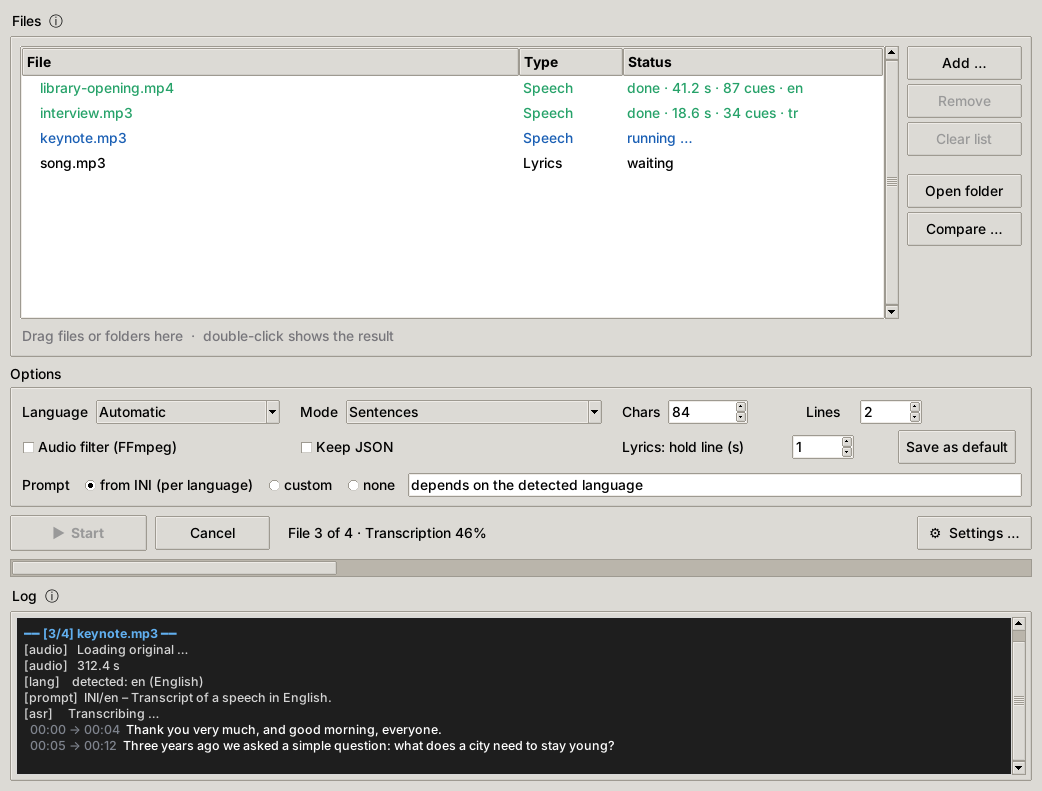
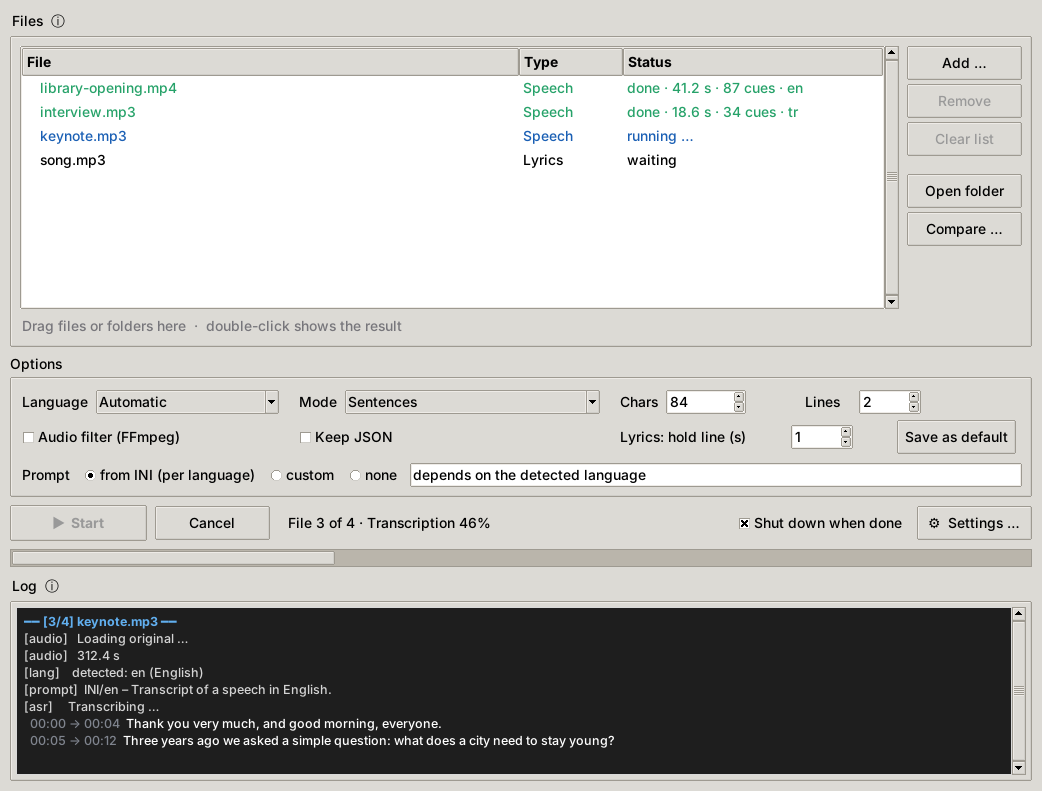
0.8.0: installer, uninstaller, update from GitHub, shut down when done
Version 0.8.0 in wt_version.py, the plugin template, the three READMEs
and the CHANGELOG. The READMEs describe the installation with install.bat
first and keep the manual installation after it; new sections for
uninstalling and "Shut down when done", new troubleshooting rows.
New screenshot of the installer; main window, DaVinci job and
Settings -> General taken again.

Claude-Session: https://claude.ai/code/session_01QDKquJcjmRpJRue1Hf8aj3

diff --git a/wt_version.py b/wt_version.py
@@ -1,4 +1,4 @@
 """Name and version: title bar, log, system check, settings dialog and comparison report."""
 
 APP_NAME = "WhisperX Subtitle Workbench"
-VERSION = "0.7.9"
+VERSION = "0.8.0"

diff --git a/README.de.md b/README.de.md
@@ -2,7 +2,7 @@
 
 [English](README.md) · **Deutsch** · [Türkçe](README.tr.md)
 
-**Version 0.7.9** · [Änderungen](CHANGELOG.md)
+**Version 0.8.0** · [Änderungen](CHANGELOG.md)
 
 Ein Windows-Programm für **Untertitel aus Reden** (WhisperX), **Liedtexte passend zum Song** (MMS_FA) und den **Wort-für-Wort-Vergleich von Transkripten**. Dazu kommt ein **Plugin für DaVinci Resolve**. Die Oberfläche gibt es auf Deutsch, Englisch und Türkisch.
 
@@ -20,6 +20,7 @@ Du ziehst Video- oder Audiodateien ins Fenster, und die Workbench erstellt `.srt
 - [Voraussetzungen und Abhängigkeiten](#voraussetzungen-und-abhängigkeiten) – vor der Installation lesen
 - [Installation (Windows)](#installation-windows)
 - [Sicher aktualisieren](#sicher-aktualisieren)
+- [Deinstallation](#deinstallation)
 - [Bedienung](#bedienung)
 - [Transkripte vergleichen](#transkripte-vergleichen)
 - [DaVinci Resolve](#davinci-resolve)
@@ -55,11 +56,13 @@ Du ziehst Video- oder Audiodateien ins Fenster, und die Workbench erstellt `.srt
   - Zeigt Zeitabweichungen.
   - Jede Zeit im Bericht ist anklickbar und spielt das Audio ab dieser Stelle.
 - **DaVinci Resolve:** Ein Plugin transkribiert die Timeline direkt aus Resolve heraus; die Untertitel kommen auf eine native Untertitelspur zurück (siehe [DaVinci Resolve](#davinci-resolve)).
+- **Installation per Doppelklick:** `install.bat` prüft Python, Grafikkarte, Treiber und ffmpeg, installiert, was fehlt, und die getesteten Paketversionen und sagt vorher und nachher, welche Pakete es aktualisiert oder zurücksetzt. Updates kommen von GitHub. `uninstall.bat` entfernt die Workbench und lässt deine Einstellungen stehen (siehe [Installation](#installation-windows)).
 - **Systemprüfung** bei jedem Start: Sie listet Python, alle Pakete samt Versionen, ffmpeg, die Modelle und die Grafikkarte auf und sagt dir, welche Funktion ausfallen würde.
 - **Komfort:**
   - Drag & Drop auf die BAT-Datei oder ins Fenster. Ein zweiter Start reicht seine Dateien an das schon offene Fenster weiter.
   - Ein Countdown startet die Verarbeitung automatisch; Jobs aus DaVinci Resolve haben einen eigenen.
   - Erkannte Zeilen erscheinen live im Protokoll.
+  - *Danach herunterfahren* schaltet den Rechner nach der letzten Datei aus.
   - Tooltips erklären jede Option.
   - Der Einstellungsdialog schreibt nur geänderte Werte und lässt die Kommentare in der INI stehen.
 - **Mehrsprachig:** Deutsch, Englisch und Türkisch. Weitere Sprachen fügst du hinzu, indem du eine einzige JSON-Datei kopierst (siehe [Sprache der Oberfläche und Übersetzungen](#sprache-der-oberfläche-und-übersetzungen)).
@@ -130,6 +133,30 @@ whisperx 3.8.x ── verlangt torch~=2.8.0, torchaudio~=2.8.0, torchvision~=0.2
 ---
 
 ## Installation (Windows)
+
+### Mit install.bat (empfohlen)
+
+1. **Herunterladen:** [WhisperX-Subtitle-Workbench.zip](https://github.com/fardem/WhisperX-Subtitle-Workbench/releases/latest/download/WhisperX-Subtitle-Workbench.zip) (das neueste Release).
+2. **Entpacken:** Rechtsklick auf die ZIP-Datei → *Alle extrahieren*. Ein Doppelklick öffnet die ZIP-Datei nur; von dort startet `install.bat` nicht.
+3. **Doppelklick auf `install.bat`** im entpackten Ordner. Windows warnt eventuell, weil die Datei aus dem Internet kommt: *Weitere Informationen* → *Trotzdem ausführen*.
+4. Fehlt Python, fragt das schwarze Fenster, ob Python 3.13 mit winget installiert werden soll: mit `J` antworten. Administratorrechte sind nicht nötig.
+5. Das Fenster des Installers listet, was es gefunden hat und was es tun wird. Vor dem Klick auf den blauen Knopf ändert es nichts.
+
+![Installer](docs/images/installer.png)
+
+Der Installer:
+- installiert nach `C:\WhisperX-Subtitle-Workbench` (*Ändern …* wählt einen anderen Ordner). Einen Ordner, in dem schon eine Workbench mit `venv` liegt, repariert er an Ort und Stelle.
+- installiert ffmpeg und bei Bedarf die Microsoft Visual C++ Runtime mit winget, jeweils nach einem Häkchen in der Liste.
+- wählt die PyTorch-Version für die Grafikkarte: `cu128` für RTX 20xx–50xx und GTX 16xx, `cu126` für GTX 9xx/10xx und Titan V, die CPU-Version ohne NVIDIA-Karte. Bei `cu126` stellt er die *Genauigkeit* auf `int8`, bei der CPU-Version das *Gerät* auf `cpu` – nur, wo noch der Vorgabewert steht.
+- installiert die Versionen aus `constraints.txt` in der Reihenfolge der manuellen Installation unten.
+- legt eine Verknüpfung auf dem Desktop und im Startmenü sowie einen Eintrag unter *Einstellungen → Apps* an, lädt das Whisper-Modell und installiert das Plugin für DaVinci Resolve – jeweils nach einem Häkchen.
+- verhindert während der Installation den Standby und schreibt alles in `install.log`.
+
+Nach der Installation in einen anderen Ordner brauchst du den entpackten Ordner nicht mehr.
+
+Bricht die Installation ab, zum Beispiel weil die Internetverbindung weg war, starte `install.bat` erneut: Es macht weiter und lädt fertige Dateien nicht noch einmal. Der Eintrag *WhisperX Subtitle Workbench – aktualisieren oder reparieren* im Startmenü startet es ebenfalls.
+
+### Manuelle Installation
 
 Alle Befehle sind für `cmd.exe`. Der Beispielordner ist `C:\WhisperX-Subtitle-Workbench`. Jeder andere Ordner geht auch, solange `venv` **darin** liegt, denn `Whisper_Tool.bat` sucht es dort.
 
@@ -225,6 +252,12 @@ Wenn du schon ein funktionierendes WhisperX-venv hast, z.B. in `C:\WhisperX\venv
 
 ## Sicher aktualisieren
 
+**Mit install.bat:** *Einstellungen → Allgemein → Nach Updates suchen …* fragt GitHub nach einer neuen Version; die Workbench schließt sich, und `install.bat` übernimmt. Oder lade die neue ZIP-Datei, entpacke sie und starte das `install.bat` darin: Es findet die installierte Workbench und aktualisiert sie. Bevor der Installer etwas ändert, listet er, welche Pakete er aktualisiert (neuere Version) und welche er zurücksetzt (ältere Version); danach zeigt er, was er geändert hat. Die Programmdateien der alten Version bleiben in `update-backup\`; scheitert das Update, holt *Alte Version wiederherstellen* sie zurück. `whisper_tool.ini` wird nie ersetzt.
+
+Beim Start fragt die Workbench höchstens einmal am Tag bei GitHub nach einer neuen Version und nennt sie im Protokoll; *Einstellungen → Allgemein* schaltet das ab (`[System] update_check = 0`).
+
+**Von Hand:**
+
 - **Zuerst die Workbench schließen.** Die laufende Version steht in der Titelleiste hinter *WhisperX Subtitle Workbench*, in der ersten Zeile des Protokolls und unter *Einstellungen → Allgemein*. Ist beim Start der neuen Version noch ein älteres Fenster offen, warnt die neue Version, statt deine Dateien still an das alte Fenster weiterzugeben.
 - **Die Workbench selbst:** `git pull`, oder die neuen Dateien über die alten kopieren. Deine Einstellungen stehen in `whisper_tool.ini`. Diese Datei gehört nicht zum Repository, ein Update überschreibt sie also nie. Neue Optionen bekommen automatisch Standardwerte.
 - **Python-Pakete:** Nur aktualisieren, wenn du etwas Neues brauchst. So geht es sicher:
@@ -253,6 +286,21 @@ Wenn du schon ein funktionierendes WhisperX-venv hast, z.B. in `C:\WhisperX\venv
 
 ---
 
+## Deinstallation
+
+Starte `uninstall.bat` im Ordner der Workbench oder *Einstellungen → Apps → WhisperX Subtitle Workbench → Deinstallieren*. Ein Fenster listet, was entfernt wird, jede Gruppe mit Häkchen und Größe:
+
+- die Python-Umgebung (`venv`)
+- die Programmdateien, die Verknüpfungen und der Eintrag unter *Apps*
+- eigene Modelle (`models`)
+- die SRTs der letzten Übergaben in `resolve_temp` – die Untertitel auf deinen Timelines bleiben, die Elemente im Bin *WhisperX* sind danach offline
+- das Plugin für DaVinci Resolve, wenn es zu diesem Ordner gehört
+- geladene Modelle in deinem Benutzerordner – Vorgabe aus, andere Programme können sie nutzen
+
+Temporäre Dateien und Protokolle werden ohne Rückfrage entfernt. `whisper_tool.ini` und `whisper_tool.ini.bak` bleiben immer, ebenso alle Dateien, die nicht zur Workbench gehören, zum Beispiel Videos und SRTs im Ordner. Der Bericht am Ende nennt sie mit Pfad und listet, was auf dem PC bleibt: Python, ffmpeg, die Visual C++ Runtime und die Caches, jeweils mit dem Hinweis, ob `install.bat` sie installiert hat. Er wird als `uninstall_report.txt` gespeichert. Python, ffmpeg und Treiber entfernt `uninstall.bat` nie.
+
+---
+
 ## Bedienung
 
 | Du ziehst … | Die Workbench macht … | Ergebnis |
@@ -264,6 +312,7 @@ Wenn du schon ein funktionierendes WhisperX-venv hast, z.B. in `C:\WhisperX\venv
 | die WAV eines DaVinci-Resolve-Jobs – das Plugin startet die Workbench damit | Transkription, dann **→ An DaVinci übergeben** | die Untertitel auf einer Untertitelspur in Resolve |
 
 - **Start** verarbeitet die markierten Dateien. Ist nichts markiert, verarbeitet es alle Dateien, die noch nicht fertig sind. Ist alles fertig, verarbeitet es alle nochmal, z.B. mit anderem Layout.
+- **Danach herunterfahren:** Mit dem Häkchen neben *Start* fährt der Rechner nach der letzten Datei herunter. Vorher zählt ein Fenster 60 Sekunden herunter; *Abbrechen* dort lässt den Rechner an. Bis dahin geht der Rechner nicht in den Standby, und das Protokoll wird als `whisper_tool_shutdown.log` gespeichert. Nicht nach *Abbrechen* im Hauptfenster; das Häkchen fehlt, wenn das Plugin die Workbench gestartet hat, und ist gesperrt, solange ein Job aus DaVinci Resolve in der Liste ist. Programme mit ungespeicherten Daten, zum Beispiel DaVinci Resolve, können das Herunterfahren anhalten.
 - **Sprache:**
   - *Automatisch* erkennt die Sprache pro Datei, anhand der ersten 30 Sekunden.
   - Eine fest eingestellte Sprache ist zuverlässiger. Wähle sie, wenn die Aufnahme mit Musik oder einem Intro beginnt.
@@ -415,10 +464,13 @@ venv\Scripts\python.exe wt_compare.py A.srt --ref referenz.srt --lang de
 
 | Problem | Lösung |
 |---|---|
+| `install.bat`: „Der Computer wurde durch Windows geschützt“ | *Weitere Informationen* → *Trotzdem ausführen*. Der Installer entfernt die Internet-Markierung von den Dateien der Workbench; danach kommt die Warnung nicht wieder |
+| Die Installation ist abgebrochen | `install.bat` erneut starten; es macht weiter. Einzelheiten stehen in `install.log` im Ordner der Workbench |
+| Der Installer meldet Pakete, die neuer als getestet sind | *Anpassen (empfohlen)* setzt sie auf die getesteten Versionen zurück. Programme, die du ins selbe `venv` installiert hast, brauchen eventuell die neueren |
 | Nach einem Update ist noch die alte Oberfläche zu sehen (Titel „Whisper Tool“) | Ein altes Fenster ist noch offen und hat den Start übernommen. Schließen – ist es nicht sichtbar, im Task-Manager `pythonw.exe` beenden – und neu starten |
 | Die Workbench startet nicht | Ein Meldungsfenster zeigt die Ursache. Derselbe Text steht in `whisper_tool_error.log` |
 | Eine Zeile der Systemprüfung ist rot | Sie nennt das fehlende Teil und welche Funktion betroffen ist. Siehe [Häufige Installationsfehler](#häufige-installationsfehler) |
-| „torch ist eine Version ohne CUDA“ | torch wurde von PyPI installiert. Schritt 4 der Installation wiederholen |
+| „torch ist eine Version ohne CUDA“ | torch wurde von PyPI installiert. `install.bat` starten: Es ersetzt torch durch die Version für deine Grafikkarte. Von Hand: Schritt 4 der manuellen Installation |
 | Text fehlt an leisen Stellen | Den Lücken-Check ansehen. Dann den *Onset* senken oder *silero* testen (*Einstellungen → Spracherkennung*) |
 | Falsche Wörter in den Untertiteln | Den Score-Check einschalten (*Einstellungen → Spracherkennung*) und die gemeldeten Stellen anhören. Wiederkehrende Fehler mit einer Ersetzung oder dem Prompt beheben (*Einstellungen → Sprachen*) |
 | Der Score-Check markiert viele Namen, die richtig sind | Namen und Fremdwörter haben oft einen niedrigen Score. Die Schwelle senken, z. B. auf 0,30 |
@@ -446,12 +498,19 @@ venv\Scripts\python.exe wt_compare.py A.srt --ref referenz.srt --lang de
 | `lang/*.json` | Alle Texte von Oberfläche, Protokoll und Bericht (en, de, tr) |
 | `whisper_tool.example.ini` | Einstellungs-Vorlage; wird beim ersten Start zu `whisper_tool.ini` kopiert |
 | `Whisper_Tool.bat` | Starter: doppelklicken oder Dateien darauf ziehen |
+| `install.bat` | Installation, Reparatur und Update: sucht ein Python und öffnet das Fenster des Installers |
+| `uninstall.bat` | Deinstallation; `whisper_tool.ini` bleibt |
+| `wt_setup.py` | Logik von Installer und Uninstaller: Prüfungen, Paketvergleich, Kopieren, Entfernen (nur Standardbibliothek) |
+| `wt_setup_ui.py` | Fenster von Installer und Uninstaller |
+| `wt_files.txt` | Die Programmdateien dieser Version; `python tools/manifest.py --write` schreibt die Liste |
+| `.github/workflows/release.yml` | Hängt `WhisperX-Subtitle-Workbench.zip` an jedes Release |
 | `requirements.txt` | Die getesteten Paketversionen (torch zuerst installieren, Schritt 4) |
 | `constraints.txt` | Exakte Versionen aller Pakete der getesteten Installation (`pip freeze`), wird in Schritt 5 mit `-c` benutzt |
 | `tests/` | Automatische Tests (pytest). Sie brauchen weder Grafikkarte noch WhisperX und laufen bei jedem Push auf GitHub. Die Tests des Resolve-Plugins laufen gegen ein nachgebautes Resolve und brauchen das Paket `lupa`; ohne es werden sie übersprungen |
 | `tools/comments.py` | Zählt Kommentarzeilen je Datei; `--write` setzt die Grenzen in `tests/comment_limits.json` |
 | `CLAUDE.md` | Regeln für Texte und Kommentare in diesem Projekt (liest Claude Code) |
 | `resolve_temp/` | Job-Ordner des Plugins und die SRTs der letzten 10 Übergaben (nicht im Repository) |
+| `install.log`, `wt_install.json`, `update-backup/` | Protokoll und Zustand des Installers, Programmdateien der Version vor einem Update (nicht im Repository) |
 
 ---
 

diff --git a/README.md b/README.md
@@ -2,7 +2,7 @@
 
 **English** · [Deutsch](README.de.md) · [Türkçe](README.tr.md)
 
-**Version 0.7.9** · [Changelog](CHANGELOG.md)
+**Version 0.8.0** · [Changelog](CHANGELOG.md)
 
 A Windows desktop tool for **subtitles from speeches** (WhisperX), **lyrics aligned to songs** (MMS_FA) and **comparing transcripts word by word** – with a **plugin for DaVinci Resolve** and a user interface in English, German and Turkish.
 
@@ -18,6 +18,7 @@ You drop video or audio files into the window, and the Workbench creates `.srt` 
 - [Requirements and dependencies](#requirements-and-dependencies) – read this before installing
 - [Installation (Windows)](#installation-windows)
 - [Updating safely](#updating-safely)
+- [Uninstalling](#uninstalling)
 - [Usage](#usage)
 - [Comparing transcripts](#comparing-transcripts)
 - [DaVinci Resolve](#davinci-resolve)
@@ -53,11 +54,13 @@ You drop video or audio files into the window, and the Workbench creates `.srt` 
   - Shows timing deviations.
   - Every time in the report is clickable and plays the audio from that point.
 - **DaVinci Resolve:** a plugin transcribes the timeline from inside Resolve; the subtitles come back onto a native subtitle track (see [DaVinci Resolve](#davinci-resolve)).
+- **Installation with a double-click:** `install.bat` checks Python, graphics card, driver and ffmpeg, installs what is missing and the tested package versions, and says before and after which packages it updates or sets back. Updates come from GitHub. `uninstall.bat` removes the Workbench and keeps your settings (see [Installation](#installation-windows)).
 - **System check** on every start: it lists Python, all packages with versions, ffmpeg, the models and the graphics card, and tells you which feature would fail.
 - **Comfort:**
   - Drag & drop onto the BAT file or into the window. A second start hands its files to the open window.
   - A countdown starts processing automatically; jobs from DaVinci Resolve have their own.
   - Recognized lines appear live in the log.
+  - *Shut down when done* switches the PC off after the last file.
   - Tooltips explain every option.
   - A settings dialog writes only the changed values and keeps the comments in the INI.
 - **Multilingual:** English, German and Turkish. You can add more languages by copying a single JSON file (see [Interface language and translations](#interface-language-and-translations)).
@@ -128,6 +131,30 @@ whisperx 3.8.x ── requires torch~=2.8.0, torchaudio~=2.8.0, torchvision~=0.2
 ---
 
 ## Installation (Windows)
+
+### With install.bat (recommended)
+
+1. **Download** [WhisperX-Subtitle-Workbench.zip](https://github.com/fardem/WhisperX-Subtitle-Workbench/releases/latest/download/WhisperX-Subtitle-Workbench.zip) (the newest release).
+2. **Extract it:** right-click the ZIP file → *Extract All*. A double-click only opens the ZIP file; `install.bat` does not run from there.
+3. **Double-click `install.bat`** in the extracted folder. Windows may warn because the file comes from the internet: *More info* → *Run anyway*.
+4. If Python is missing, the black window asks whether to install Python 3.13 with winget: answer `Y`. No administrator rights are needed.
+5. The installer window lists what it found and what it will do. It changes nothing before you press the blue button.
+
+![Installer](docs/images/installer.png)
+
+The installer:
+- installs into `C:\WhisperX-Subtitle-Workbench` (*Change …* chooses another folder). A folder that already holds a Workbench with `venv` is repaired where it is.
+- installs ffmpeg and, if needed, the Microsoft Visual C++ Runtime with winget, each after a tick in the list.
+- chooses the PyTorch version for the graphics card: `cu128` for RTX 20xx–50xx and GTX 16xx, `cu126` for GTX 9xx/10xx and Titan V, the CPU version without an NVIDIA card. For `cu126` it sets *Precision* to `int8`, for the CPU version *Device* to `cpu` – only where the default value still stands.
+- installs the versions of `constraints.txt` in the order of the manual installation below.
+- creates a shortcut on the desktop and in the start menu and an entry under *Settings → Apps*, downloads the Whisper model and installs the plugin for DaVinci Resolve – each after a tick.
+- keeps the PC from going to standby during the installation and writes everything to `install.log`.
+
+After an installation into another folder, the extracted folder is not needed any more.
+
+If the installation stops, for example because the internet connection broke, start `install.bat` again: it continues and does not download finished files again. The start menu entry *WhisperX Subtitle Workbench – update or repair* starts it, too.
+
+### Manual installation
 
 All commands are for `cmd.exe`. The example folder is `C:\WhisperX-Subtitle-Workbench`. You can use any other folder, as long as `venv` sits **inside** it, because `Whisper_Tool.bat` looks for it there.
 
@@ -223,6 +250,12 @@ If you already have a working WhisperX venv, e.g. in `C:\WhisperX\venv`, copy th
 
 ## Updating safely
 
+**With install.bat:** *Settings → General → Check for updates …* asks GitHub for a new version; the Workbench closes and `install.bat` takes over. Or download the new ZIP file, extract it and start its `install.bat`: it finds the installed Workbench and updates it. Before the installer changes anything, it lists which packages it updates (newer version) and which it sets back (older version); afterwards it shows what it changed. The program files of the old version stay in `update-backup\`; if the update fails, *Restore the old version* brings them back. `whisper_tool.ini` is never replaced.
+
+At the start the Workbench asks GitHub at most once a day for a new version and names it in the log; *Settings → General* switches this off (`[System] update_check = 0`).
+
+**By hand:**
+
 - **Close the Workbench first.** The running version is shown in the title bar after *WhisperX Subtitle Workbench*, in the first log line and under *Settings → General*. If an older window is still open when you start the new version, the new one warns you instead of silently handing your files to the old window.
 - **The workbench itself:** `git pull`, or copy the new files over the old ones. Your settings are in `whisper_tool.ini`. That file is not part of the repository, so an update never overwrites it. New options get default values automatically.
 - **Python packages:** only update when you need something new. This is the safe way:
@@ -251,6 +284,21 @@ If you already have a working WhisperX venv, e.g. in `C:\WhisperX\venv`, copy th
 
 ---
 
+## Uninstalling
+
+Start `uninstall.bat` in the folder of the Workbench, or *Settings → Apps → WhisperX Subtitle Workbench → Uninstall*. A window lists what it removes, each group with a tick and its size:
+
+- the Python environment (`venv`)
+- the program files, the shortcuts and the entry under *Apps*
+- own models (`models`)
+- the SRTs of the last hand-overs in `resolve_temp` – the subtitles on your timelines stay, the items in the bin *WhisperX* are offline afterwards
+- the plugin for DaVinci Resolve, if it belongs to this folder
+- downloaded models in your user folder – off by default, other programs can use them
+
+Temporary files and logs are removed without asking. `whisper_tool.ini` and `whisper_tool.ini.bak` always stay, as do all files that do not belong to the Workbench, for example videos and SRTs in the folder. The report at the end names them with their paths and lists what stays on the PC: Python, ffmpeg, the Visual C++ Runtime and the caches, each with the note whether `install.bat` installed it. It is saved as `uninstall_report.txt`. `uninstall.bat` never removes Python, ffmpeg or drivers.
+
+---
+
 ## Usage
 
 | You drop … | The Workbench does … | Result |
@@ -262,6 +310,7 @@ If you already have a working WhisperX venv, e.g. in `C:\WhisperX\venv`, copy th
 | the WAV of a DaVinci Resolve job – the plugin starts the Workbench with it | transcription, then **→ Hand over to DaVinci** | the subtitles on a subtitle track in Resolve |
 
 - **Start** processes the selected files. If nothing is selected, it processes all files that are not done yet. If everything is done, it processes all files again, e.g. with another layout.
+- **Shut down when done:** with the tick next to *Start* the PC shuts down after the last file. A window counts down 60 seconds first; *Cancel* there keeps the PC on. Until then the PC does not go to standby, and the log is saved as `whisper_tool_shutdown.log`. Not after *Cancel* in the main window; the tick is missing when the plugin started the Workbench and locked while a job from DaVinci Resolve is in the list. Programs with unsaved data, for example DaVinci Resolve, can stop the shutdown.
 - **Language:**
   - *Automatic* detects the language per file, from the first 30 seconds.
   - A fixed language is more reliable. Choose it when the recording starts with music or an intro.
@@ -413,10 +462,13 @@ venv\Scripts\python.exe wt_compare.py A.srt --ref reference.srt --lang de
 
 | Problem | Solution |
 |---|---|
+| `install.bat`: “Windows protected your PC” | *More info* → *Run anyway*. The installer removes the internet mark from the files of the Workbench; afterwards the warning does not come back |
+| The installation stopped | Start `install.bat` again; it continues. Details are in `install.log` in the folder of the Workbench |
+| The installer reports packages that are newer than tested | *Adjust (recommended)* sets them back to the tested versions. Programs that you installed into the same `venv` may need the newer ones |
 | After an update you still see the old interface (title “Whisper Tool”) | An old window is still open and took over the start. Close it – if it is not visible, end `pythonw.exe` in Task Manager – and start again |
 | The Workbench does not start | A message box shows the reason. The same text is in `whisper_tool_error.log` |
 | A line of the system check is red | It names the missing part and which feature is affected. See [Common installation errors](#common-installation-errors) |
-| “torch is a build without CUDA” | torch was installed from PyPI. Repeat step 4 of the installation |
+| “torch is a build without CUDA” | torch was installed from PyPI. Start `install.bat`: it replaces torch with the version for your graphics card. By hand: step 4 of the manual installation |
 | Text is missing in quiet passages | Look at the gap check. Then lower the *Onset* or try *silero* (*Settings → Speech detection*) |
 | Wrong words in the subtitles | Switch on the score check (*Settings → Speech detection*) and listen to the places it lists. Fix recurring ones with a replacement or the prompt (*Settings → Languages*) |
 | The score check marks many names that are right | Names and foreign words often have a low score. Lower the threshold, e.g. to 0.30 |
@@ -444,12 +496,19 @@ venv\Scripts\python.exe wt_compare.py A.srt --ref reference.srt --lang de
 | `lang/*.json` | All texts of the interface, log and report (en, de, tr) |
 | `whisper_tool.example.ini` | Settings template; copied to `whisper_tool.ini` on the first start |
 | `Whisper_Tool.bat` | Starter: double-click it or drop files onto it |
+| `install.bat` | Installation, repair and update: finds a Python and opens the installer window |
+| `uninstall.bat` | Removal; `whisper_tool.ini` stays |
+| `wt_setup.py` | Logic of installer and uninstaller: checks, package comparison, copying, removing (standard library only) |
+| `wt_setup_ui.py` | Window of installer and uninstaller |
+| `wt_files.txt` | The program files of this version; `python tools/manifest.py --write` writes the list |
+| `.github/workflows/release.yml` | Attaches `WhisperX-Subtitle-Workbench.zip` to every release |
 | `requirements.txt` | The tested package versions (install torch first, step 4) |
 | `constraints.txt` | Exact versions of all packages of the tested installation (`pip freeze`), used with `-c` in step 5 |
 | `tests/` | Automatic tests (pytest). They need no GPU and no WhisperX and run on GitHub with every push. The tests of the Resolve plugin run against a fake Resolve and need the package `lupa`; without it they are skipped |
 | `tools/comments.py` | Counts comment lines per file; `--write` sets the limits in `tests/comment_limits.json` |
 | `CLAUDE.md` | Rules for texts and comments in this project (read by Claude Code) |
 | `resolve_temp/` | Job folders of the plugin and the SRTs of the last 10 hand-overs (not part of the repository) |
+| `install.log`, `wt_install.json`, `update-backup/` | Log and state of the installer, program files of the version before an update (not part of the repository) |
 
 ---
 

diff --git a/CHANGELOG.md b/CHANGELOG.md
@@ -2,6 +2,19 @@
 
 All notable changes to WhisperX Subtitle Workbench. Versioning follows [Semantic Versioning](https://semver.org): MAJOR.MINOR.PATCH.
 
+## [0.8.0] – 2026-11-10
+
+**Updating from 0.7.9:** install the plugin again – the Workbench asks at the first start, or use *Settings → DaVinci Resolve*. Your `whisper_tool.ini` needs no change: without the new key `[System] update_check` the Workbench asks GitHub for a new version at most once a day; `update_check = 0` switches that off. The Python packages need no change. To get the shortcuts and the entry under *Settings → Apps*, start `install.bat` once in the folder of the Workbench and press *Check and repair*; it changes no package that already has the tested version.
+
+- **install.bat:** installation with a double-click. If Python is missing, it offers Python 3.13 with winget. A window then checks Python, graphics card, driver, ffmpeg, the Visual C++ Runtime, free space and the folder, and changes nothing before the blue button is pressed. It installs into `C:\WhisperX-Subtitle-Workbench` (another folder can be chosen; a folder with an existing `venv` is repaired where it is), chooses PyTorch `cu128`, `cu126` or the CPU version by the compute capability of the graphics card and installs the versions of `constraints.txt` in the order of the README. Before a change it lists which packages it updates and which it sets back to an older version, with a warning for torch, ctranslate2 and the other packages WhisperX depends on; afterwards it reports what changed. Packages that are not part of the Workbench stay. A broken `venv` is renamed to `venv-alt-…` and kept until the new one works. An interrupted installation continues at the next start. Optional, each with a tick: ffmpeg and the Visual C++ Runtime with winget, shortcuts on the desktop and in the start menu, an entry under *Settings → Apps*, the Whisper model, the plugin for DaVinci Resolve. Without an NVIDIA card it sets *Device* to `cpu`, for GTX 9xx/10xx *Precision* to `int8`, only where the default value still stands. The PC does not go to standby during the installation; everything is logged in `install.log`
+- **uninstall.bat** (also *Settings → Apps → Uninstall*): removes the Python environment, the program files, the shortcuts and the entry under *Apps*, own models, the SRTs in `resolve_temp` and the plugin, each after a tick; temporary files without asking. `whisper_tool.ini` and `whisper_tool.ini.bak` always stay, as do files that do not belong to the Workbench. The report lists them with their paths and names what stays on the PC (Python, ffmpeg, Visual C++ Runtime, caches) and whether `install.bat` installed it; it is saved as `uninstall_report.txt`. Without Python, `uninstall.bat` removes only `venv` and the temporary files
+- **Update from GitHub:** *Settings → General → Check for updates …* closes the Workbench and lets `install.bat` download and install the newest release; the program files of the old version stay in `update-backup\` and *Restore the old version* brings them back. `install.bat` from a new ZIP file finds the installed Workbench and updates it the same way. At the start the Workbench names a new version in the log (`[System] update_check`, at most once a day)
+- **Releases** get `WhisperX-Subtitle-Workbench.zip` attached by a workflow; the README links the newest one
+- **Shut down when done:** a tick next to *Start* shuts the PC down after the last file, after a countdown of 60 seconds that can be cancelled. Not after *Cancel*, not in a window the plugin started and not while a job from DaVinci Resolve is in the list. Programs with unsaved data can stop the shutdown (`shutdown /s /t 0`, without `/f`). Until then the PC does not go to standby; the log is saved as `whisper_tool_shutdown.log`
+- `Whisper_Tool.bat` without a `venv` offers to start `install.bat`
+- `wt_files.txt` lists the program files of a version; `python tools/manifest.py --write` writes it, a test compares it with git
+- README in all three languages: installation with `install.bat` first, the manual installation after it, new sections *Uninstalling* and *Shut down when done*, new rows under *Troubleshooting*; new screenshot of the installer, new screenshots of the main window, of a DaVinci job and of *Settings → General*
+
 ## [0.7.9] – 2026-11-08
 
 **Updating from 0.7.8:** install the plugin again – the Workbench asks at the first start, or use *Settings → DaVinci Resolve*. The plugin window starts once with its new size. Your `whisper_tool.ini` needs no change: without the new key `default_cue_chars` the Workbench takes `default_chars × default_lines`, so your subtitles stay the same. *Save as default* in the main window writes `default_cue_chars`; afterwards you can delete `default_chars`. The Python packages need no change.
